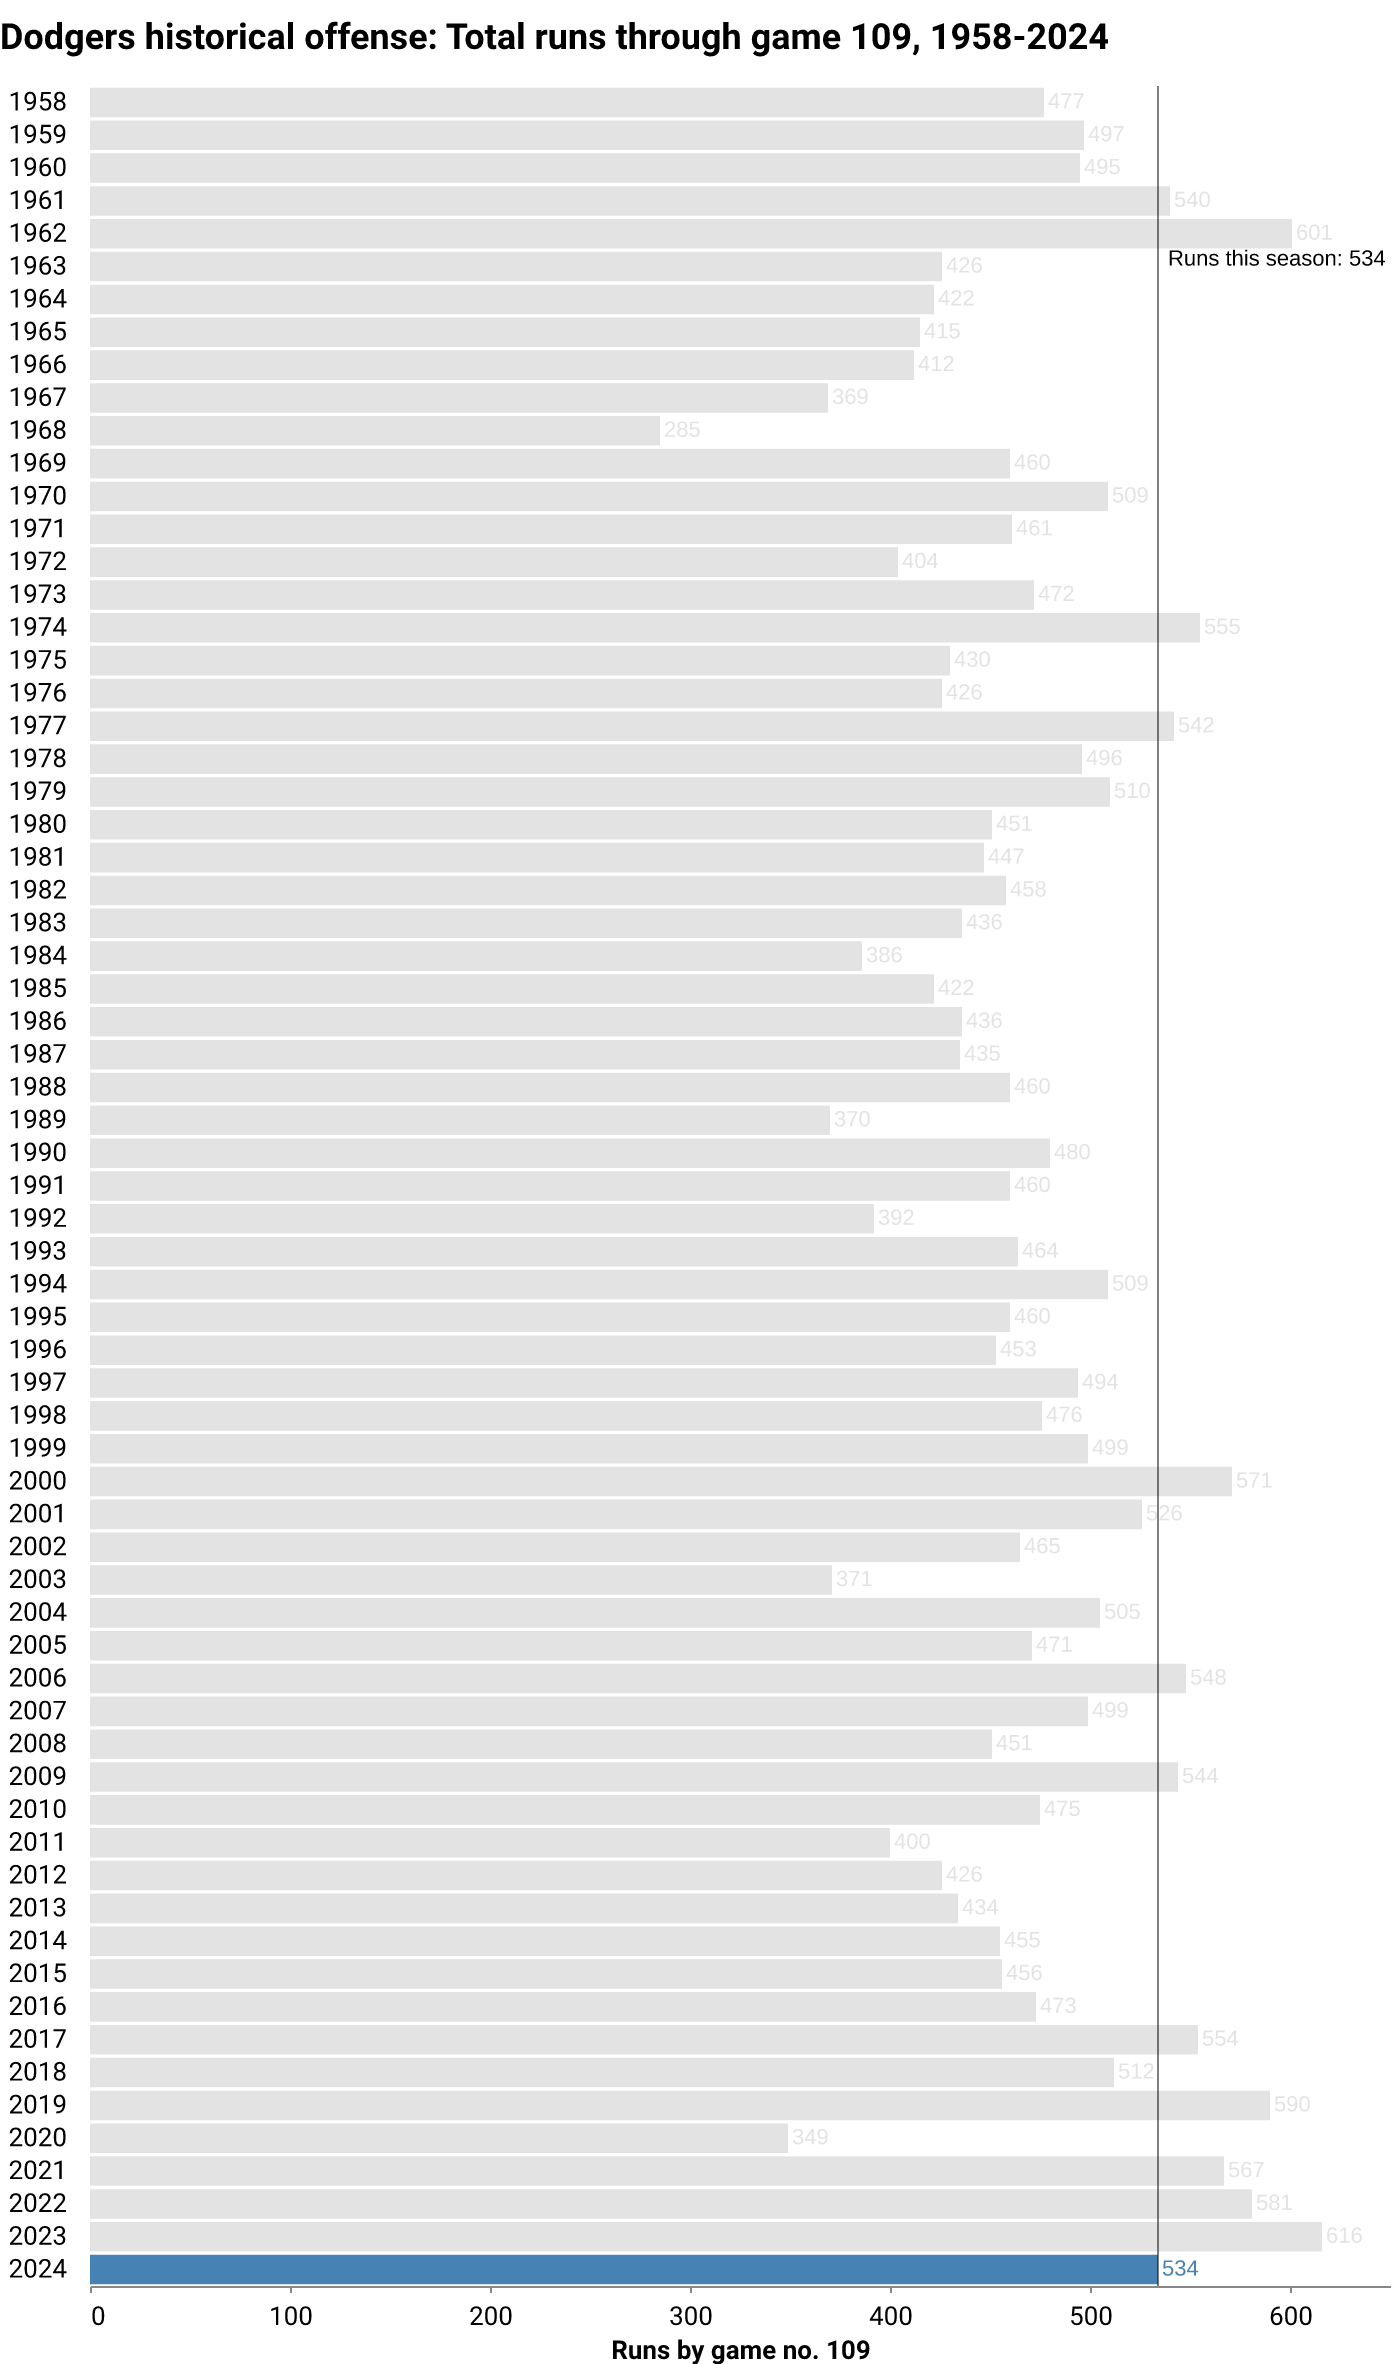
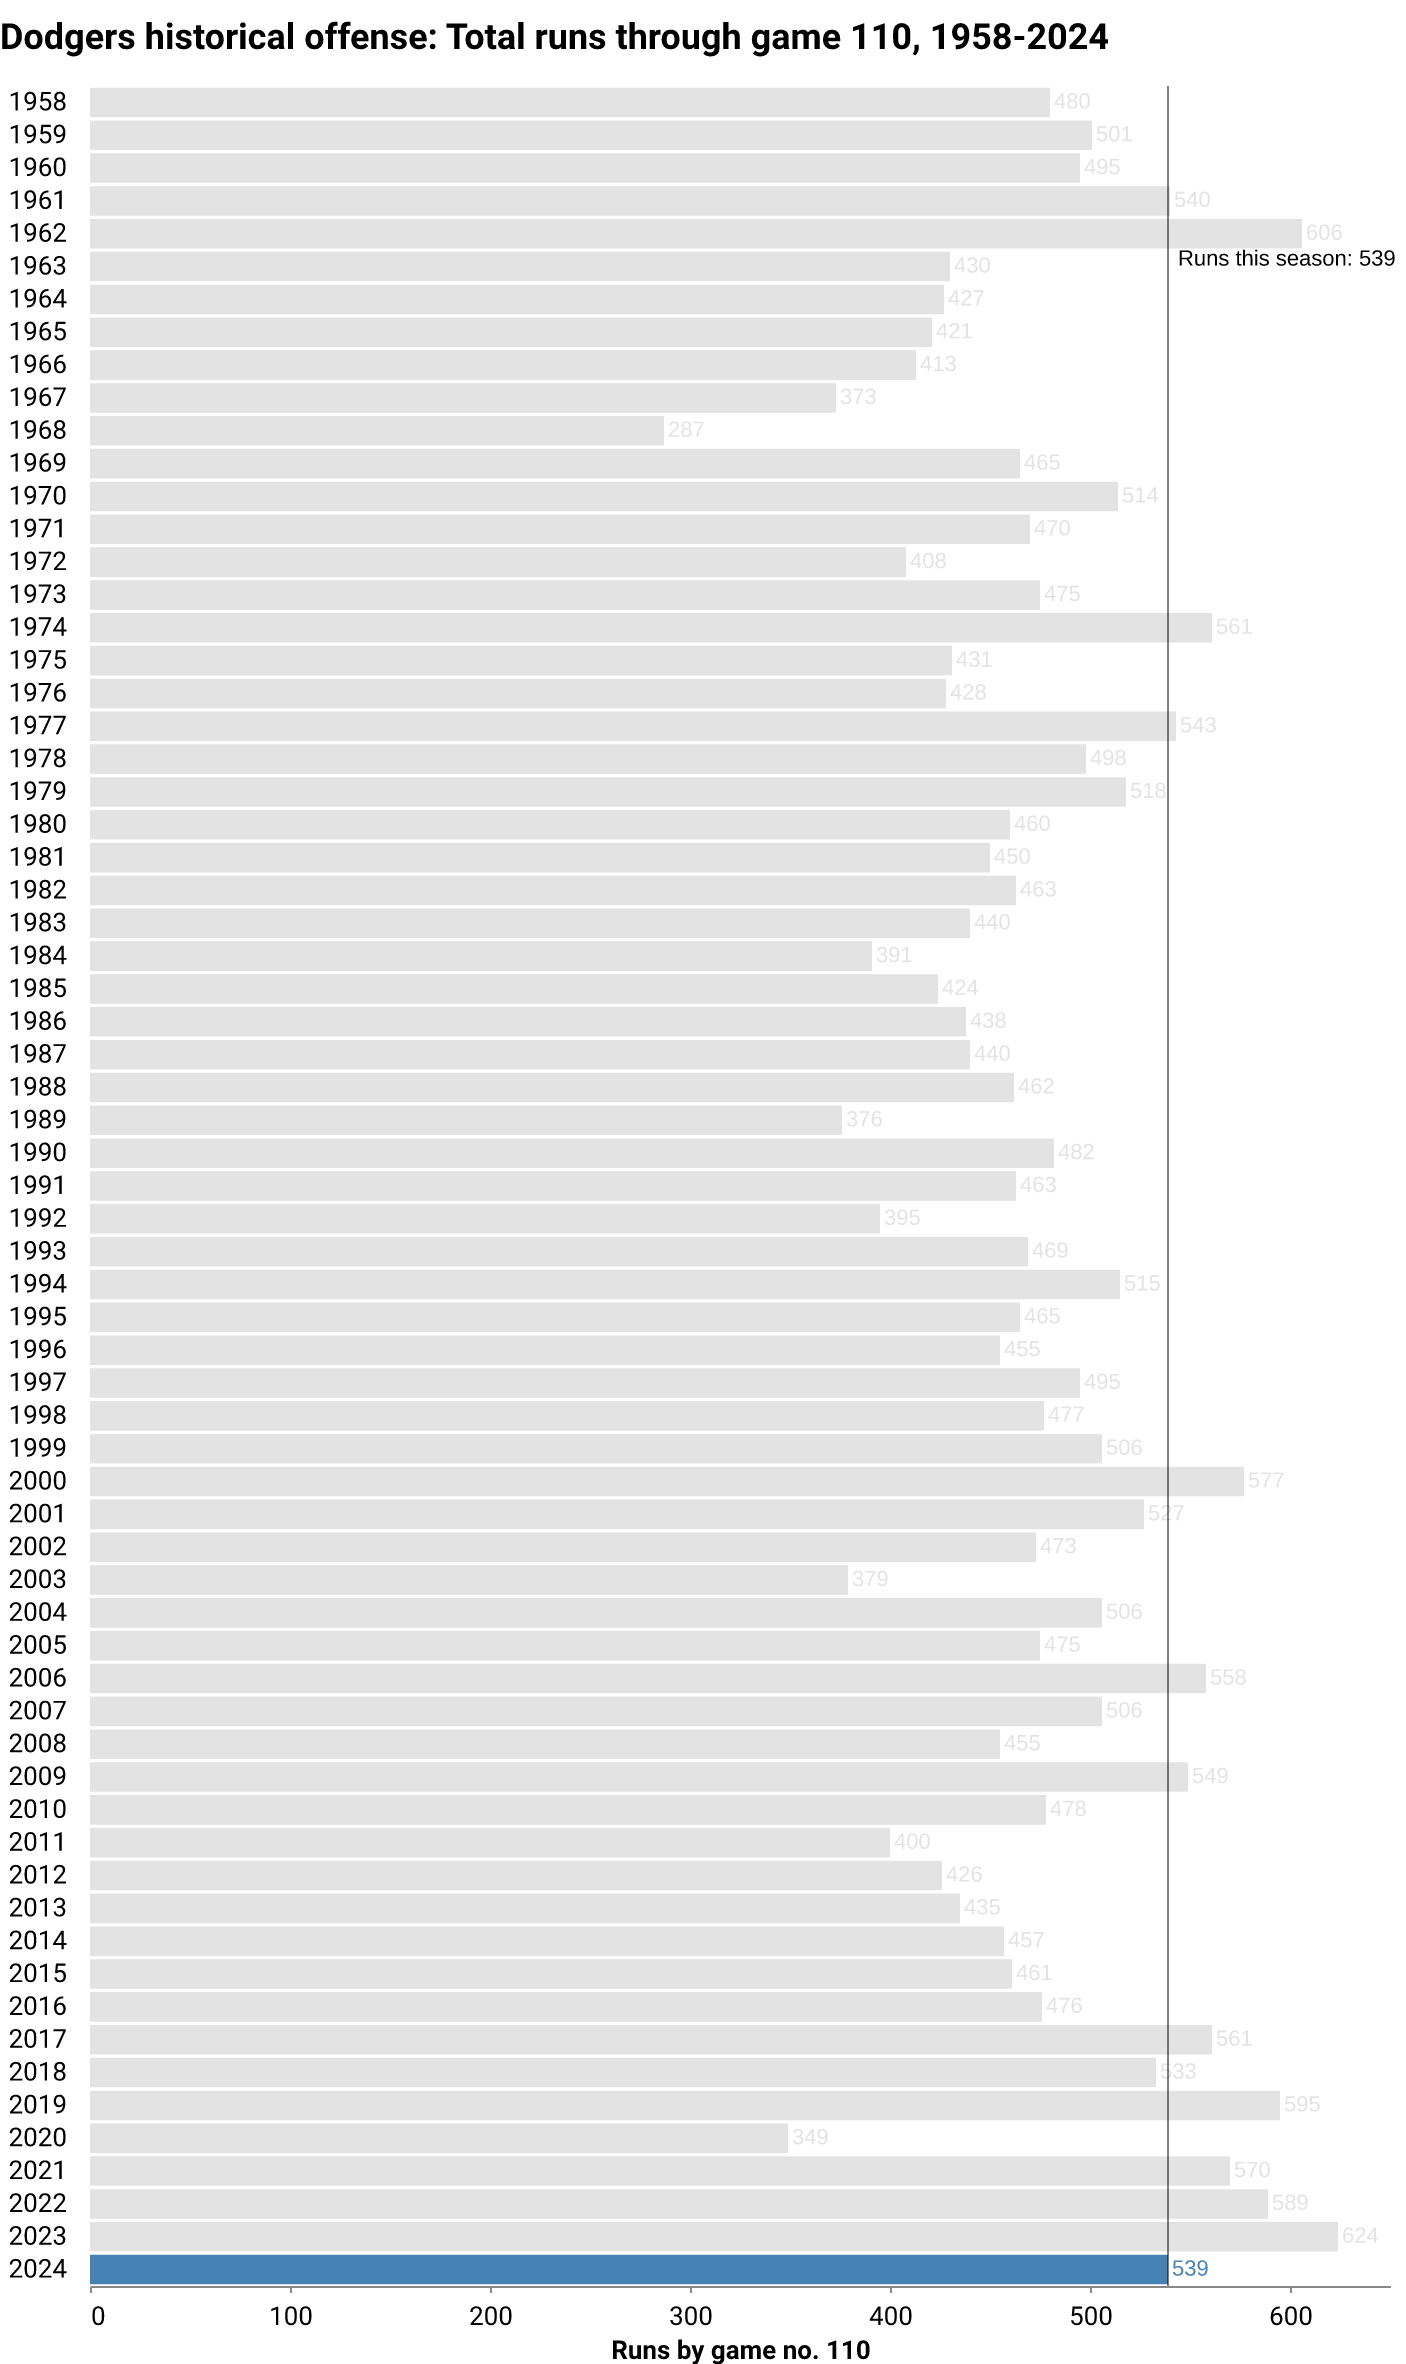
deploy: a82b03d4ac64ba3c725657c3181e6b2e0ded121d

diff --git a/index.html b/index.html
@@ -184,7 +184,7 @@
 <p class="subhead">
     
     
-    <span class="highlight">LOS ANGELES</span> <span class="updated">(August 3)</span> — After <span class="highlight">109</span> games this season, the Dodgers are in <span class="highlight">1st</span> place in the National League West division. The team has compiled a <span class="highlight">63-46</span> record, winning <span class="highlight">57%</span> of its games so far. The last game was a <span class="highlight">1-8</span> away <span class="highlight">loss</span> against the San Diego Padres in front of <span class="highlight">46,997</span> fans. They've won <span class="highlight">5 of the last 10</span>.
+    <span class="highlight">LOS ANGELES</span> <span class="updated">(August 3)</span> — After <span class="highlight">110</span> games this season, the Dodgers are in <span class="highlight">1st</span> place in the National League West division. The team has compiled a <span class="highlight">63-47</span> record, winning <span class="highlight">56%</span> of its games so far. The last game was a <span class="highlight">5-6</span> away <span class="highlight">loss</span> against the Oakland Athletics in front of <span class="highlight">21,060</span> fans. They've won <span class="highlight">4 of the last 10</span>.
 </p>
 </div>
 
@@ -209,7 +209,7 @@
             <p class="card-text">63</p>
           </div>
           <div class="card-footer text-muted">
-        This point last season: 63
+        This point last season: 64
           </div>
         </div>
       </div>
@@ -222,7 +222,7 @@
             Losses
           </div>
           <div class="card-body">
-            <p class="card-text">46</p>
+            <p class="card-text">47</p>
           </div>
           <div class="card-footer text-muted">
         This point last season: 46
@@ -238,10 +238,10 @@
             Record
           </div>
           <div class="card-body">
-            <p class="card-text">63-46</p>
+            <p class="card-text">63-47</p>
           </div>
           <div class="card-footer text-muted">
-        This point last season: 63-46
+        This point last season: 64-46
           </div>
         </div>
       </div>
@@ -254,7 +254,7 @@
             Win percentage
           </div>
           <div class="card-body">
-            <p class="card-text">57%</p>
+            <p class="card-text">56%</p>
           </div>
           <div class="card-footer text-muted">
         This point last season: 57%
@@ -270,7 +270,7 @@
             Games up/back
           </div>
           <div class="card-body">
-            <p class="card-text">4.5</p>
+            <p class="card-text">4.0</p>
           </div>
           <div class="card-footer text-muted">
         Division rank: 1
@@ -302,7 +302,7 @@
             Runs
           </div>
           <div class="card-body">
-            <p class="card-text">534</p>
+            <p class="card-text">539</p>
           </div>
           <div class="card-footer text-muted">
         League rank: 2
@@ -318,10 +318,10 @@
             Runs against
           </div>
           <div class="card-body">
-            <p class="card-text">448</p>
+            <p class="card-text">454</p>
           </div>
           <div class="card-footer text-muted">
-        This point last season: 509
+        This point last season: 511
           </div>
         </div>
       </div>
@@ -334,10 +334,10 @@
             Run differential
           </div>
           <div class="card-body">
-            <p class="card-text">86</p>
+            <p class="card-text">85</p>
           </div>
           <div class="card-footer text-muted">
-        This point last season: 107
+        This point last season: 113
           </div>
         </div>
       </div>
@@ -408,7 +408,7 @@
             Batting average
           </div>
           <div class="card-body">
-            <p class="card-text">.252</p>
+            <p class="card-text">.251</p>
           </div>
           <div class="card-footer text-muted">
         Last decade average: .253
@@ -424,7 +424,7 @@
             Home runs
           </div>
           <div class="card-body">
-            <p class="card-text">147</p>
+            <p class="card-text">149</p>
           </div>
           <div class="card-footer text-muted">
         League rank: 1
@@ -456,7 +456,7 @@
             On-base percentage
           </div>
           <div class="card-body">
-            <p class="card-text">.333</p>
+            <p class="card-text">.332</p>
           </div>
           <div class="card-footer text-muted">
         Last decade average: .332
@@ -475,7 +475,7 @@
             <p class="card-text">67</p>
           </div>
           <div class="card-footer text-muted">
-        League rank: 9
+        League rank: 10
           </div>
         </div>
       </div>
@@ -598,7 +598,7 @@
             Strikeouts
           </div>
           <div class="card-body">
-            <p class="card-text">933</p>
+            <p class="card-text">943</p>
           </div>
           <div class="card-footer text-muted">
         League rank: 7
@@ -614,7 +614,7 @@
             Walks
           </div>
           <div class="card-body">
-            <p class="card-text">343</p>
+            <p class="card-text">344</p>
           </div>
           <div class="card-footer text-muted">
         League rank: 12
@@ -630,7 +630,7 @@
             ERA
           </div>
           <div class="card-body">
-            <p class="card-text">3.80</p>
+            <p class="card-text">3.83</p>
           </div>
           <div class="card-footer text-muted">
         League rank: 6
@@ -708,7 +708,7 @@
     </div>
 </div>
 
-  <p class="dated">Notes: Last updated August 3, 2024, 12:03 AM PT. More <a href="https://github.com/stiles/dodgers/blob/main/README.md">about the data</a>.</p>
+  <p class="dated">Notes: Last updated August 3, 2024, 4:03 AM PT. More <a href="https://github.com/stiles/dodgers/blob/main/README.md">about the data</a>.</p>
   
 </div>
 
